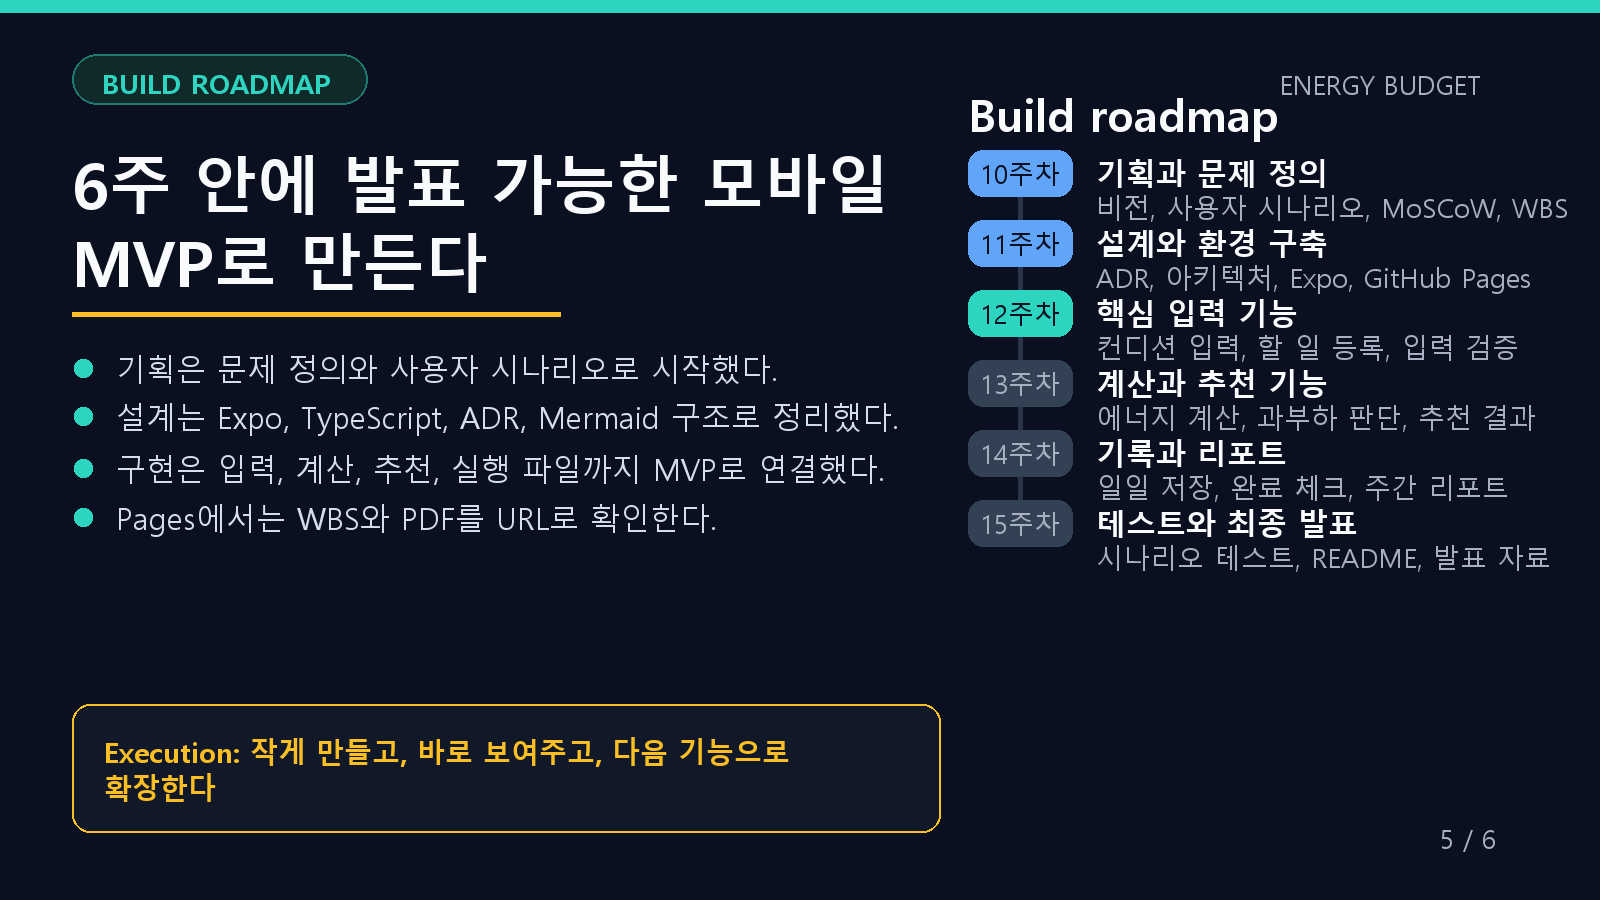
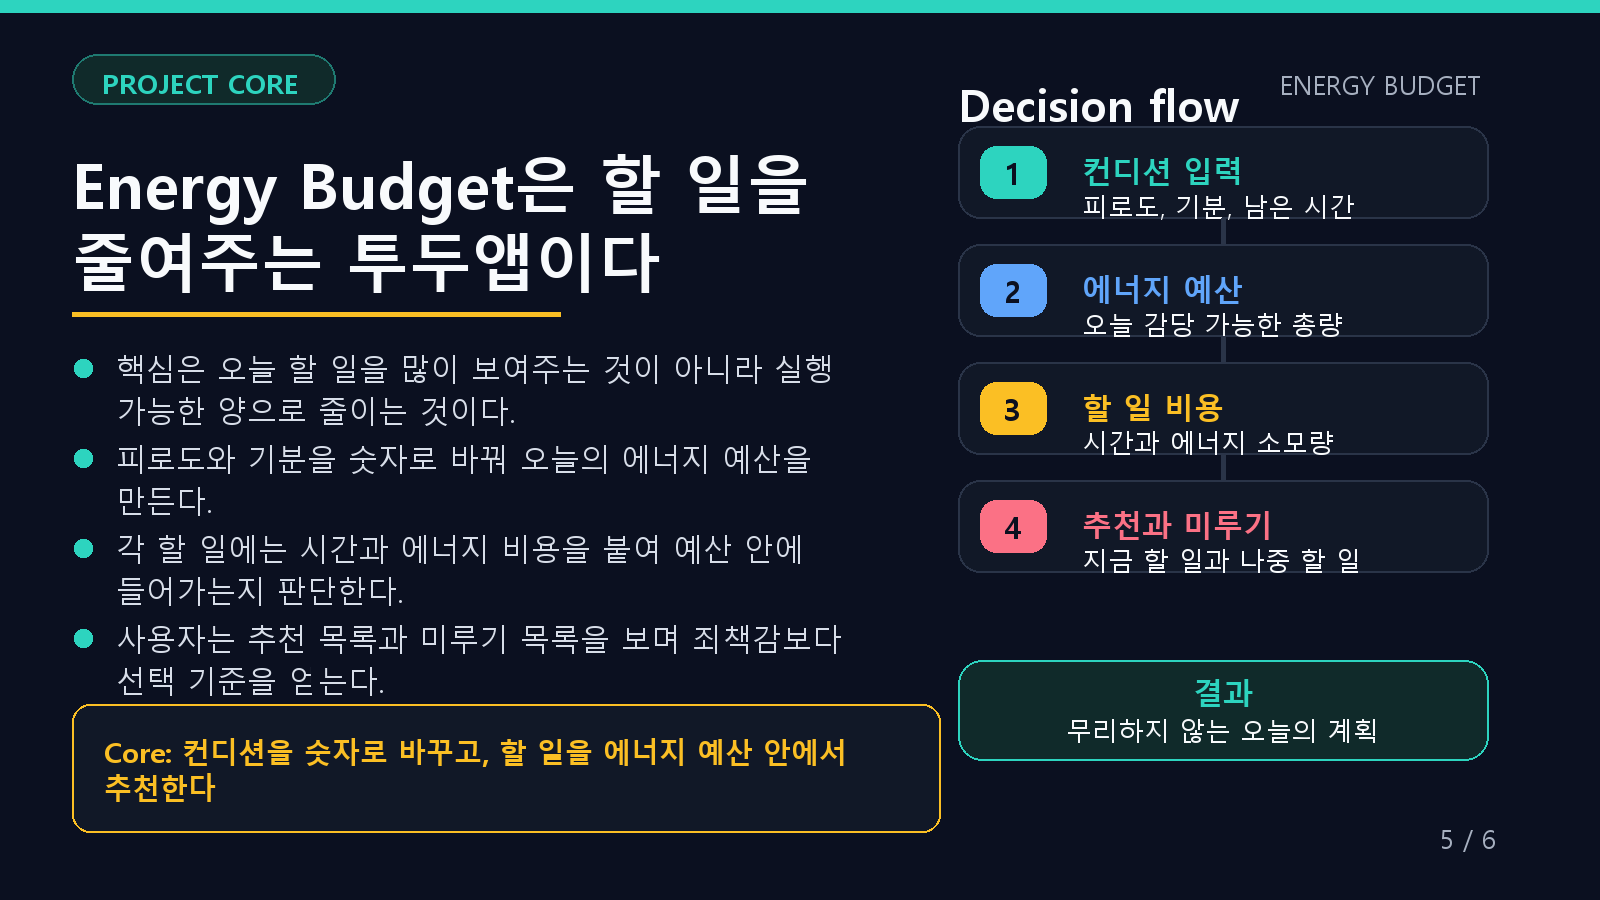
Replace roadmap slide with project core

diff --git a/presentation.html b/presentation.html
@@ -269,19 +269,23 @@
           <h2>3번의 입력으로 오늘 할 일과 미룰 일을 나눈다</h2>
           <div class="body"><p>사용자는 오늘의 피로도, 기분, 남은 시간만 입력한다.</p><p>할 일에는 예상 시간과 에너지 소모량을 붙인다.</p><p>앱은 에너지 예산 안에 들어오는 일을 추천하고 넘치는 일은 뒤로 보낸다.</p><p>하루 중 계획이 무너져도 남은 에너지 기준으로 다시 시작할 수 있다.</p></div>
           
-          <table class="wbs-mini">
-            <thead><tr><th>주차</th><th>목표</th><th>산출물</th><th>상태</th></tr></thead>
-            <tbody><tr><td>10주차</td><td>기획과 문제 정의</td><td>비전, 사용자 시나리오, MoSCoW, WBS</td><td><span class="status completed">Completed</span></td></tr><tr><td>11주차</td><td>설계와 환경 구축</td><td>ADR, 아키텍처, Expo, GitHub Pages</td><td><span class="status completed">Completed</span></td></tr><tr><td>12주차</td><td>핵심 입력 기능</td><td>컨디션 입력, 할 일 등록, 입력 검증</td><td><span class="status in-progress">In Progress</span></td></tr><tr><td>13주차</td><td>계산과 추천 기능</td><td>에너지 계산, 과부하 판단, 추천 결과</td><td><span class="status not-started">Not Started</span></td></tr><tr><td>14주차</td><td>기록과 리포트</td><td>일일 저장, 완료 체크, 주간 리포트</td><td><span class="status not-started">Not Started</span></td></tr><tr><td>15주차</td><td>테스트와 최종 발표</td><td>시나리오 테스트, README, 발표 자료</td><td><span class="status not-started">Not Started</span></td></tr></tbody>
-          </table>
-            
           <div class="note">MVP: 컨디션 입력, 할 일 등록, 예산 계산, 추천 분리</div>
           <div class="page">3 / 5</div>
         </section>
         
         <section class="slide">
-          <div class="kicker">BUILD ROADMAP</div>
-          <h2>6주 안에 발표 가능한 모바일 MVP로 만든다</h2>
-          <div class="body"><p>기획은 문제 정의와 사용자 시나리오로 시작했다.</p><p>설계는 Expo, TypeScript, ADR, Mermaid 구조로 정리했다.</p><p>구현은 입력, 계산, 추천, 실행 파일까지 MVP로 연결했다.</p><p>Pages에서는 WBS와 PDF를 URL로 확인한다.</p></div>
+          <div class="kicker">PROJECT CORE</div>
+          <h2>Energy Budget은 할 일을 줄여주는 투두앱이다</h2>
+          <div class="body"><p>핵심은 오늘 할 일을 많이 보여주는 것이 아니라 실행 가능한 양으로 줄이는 것이다.</p><p>피로도와 기분을 숫자로 바꿔 오늘의 에너지 예산을 만든다.</p><p>각 할 일에는 시간과 에너지 비용을 붙여 예산 안에 들어가는지 판단한다.</p><p>사용자는 추천 목록과 미루기 목록을 보며 죄책감보다 선택 기준을 얻는다.</p></div>
+          
+          <div class="note">Core: 컨디션을 숫자로 바꾸고, 할 일을 에너지 예산 안에서 추천한다</div>
+          <div class="page">4 / 5</div>
+        </section>
+        
+        <section class="slide">
+          <div class="kicker">TECH ARCHITECTURE</div>
+          <h2>감정적인 문제를 계산 가능한 제품 구조로 바꾼다</h2>
+          <div class="body"><p>presentation은 사용자가 보는 화면을 담당한다.</p><p>application은 화면과 기능 사이의 흐름을 정리한다.</p><p>domain은 에너지 예산 계산과 과부하 판단 규칙을 담당한다.</p><p>data는 오늘 계획과 기록을 저장하고 불러오는 역할을 맡는다.</p></div>
           
           <div class="diagram-panel">
             <div class="mermaid">
@@ -295,15 +299,6 @@ flowchart LR
             </div>
           </div>
             
-          <div class="note">Execution: 작게 만들고, 바로 보여주고, 다음 기능으로 확장한다</div>
-          <div class="page">4 / 5</div>
-        </section>
-        
-        <section class="slide">
-          <div class="kicker">TECH ARCHITECTURE</div>
-          <h2>감정적인 문제를 계산 가능한 제품 구조로 바꾼다</h2>
-          <div class="body"><p>presentation은 사용자가 보는 화면을 담당한다.</p><p>application은 화면과 기능 사이의 흐름을 정리한다.</p><p>domain은 에너지 예산 계산과 과부하 판단 규칙을 담당한다.</p><p>data는 오늘 계획과 기록을 저장하고 불러오는 역할을 맡는다.</p></div>
-          
           <div class="note">Tech: 화면과 계산 규칙을 분리해 MVP 이후에도 확장 가능하게 만든다</div>
           <div class="page">5 / 5</div>
         </section>